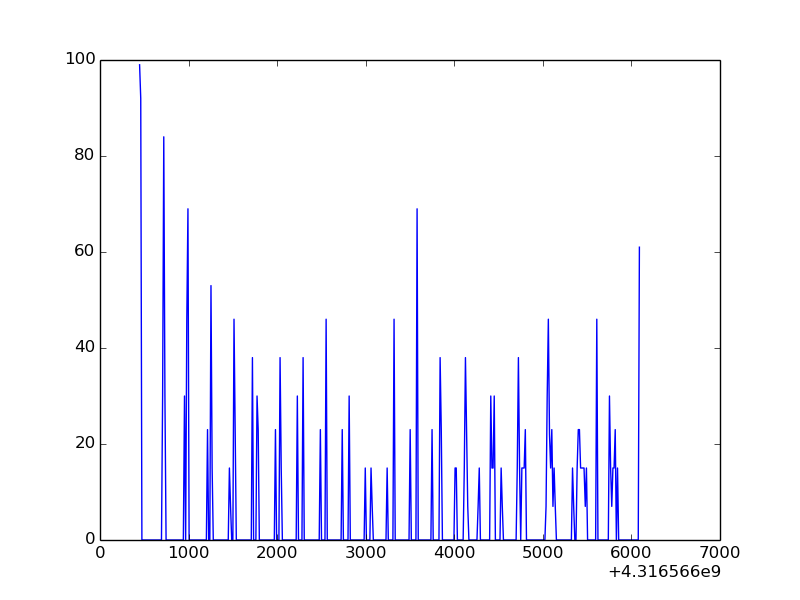
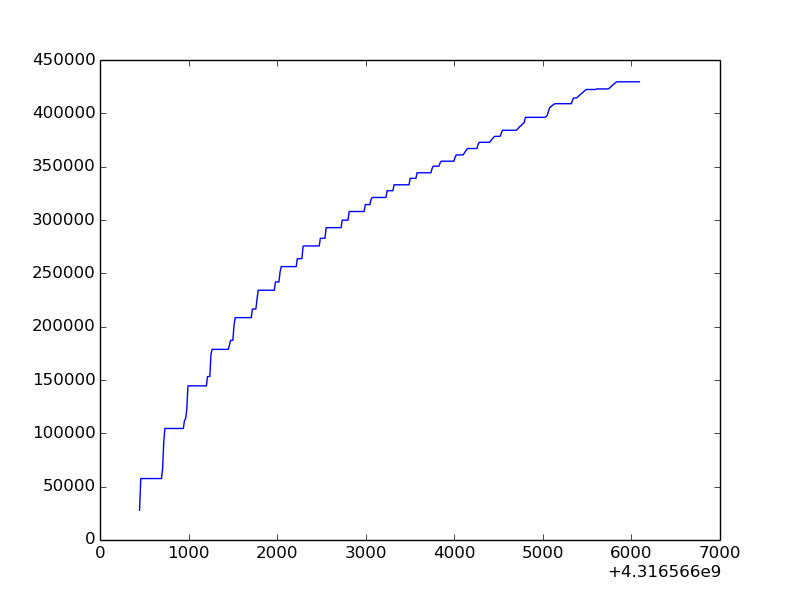
commiting graph and py_script

diff --git a/py_script.py b/py_script.py
@@ -14,17 +14,21 @@ data = []
 for line in lines:
 	data.append(line.split(' '))
 
-del data[-1]  
+del data[-1] 
+accum_value = 0
+page_fault_accum = []
 for entry in data:
 	entry[0] = int(entry[0])
  	entry[1] = int(entry[1])
  	entry[2] = int(entry[2])
  	entry[3] = int(entry[3].rstrip())
- 
+	accum_value += entry[0] + entry[1]
+	page_fault_accum.append(accum_value)	
+
 data_np = np.array(data)
 print data_np
 
 
-plt.plot(data_np[:,3], data_np[:,2])
+plt.plot(data_np[:,3], page_fault_accum)
 plt.savefig("profile1_graph.png")
 
